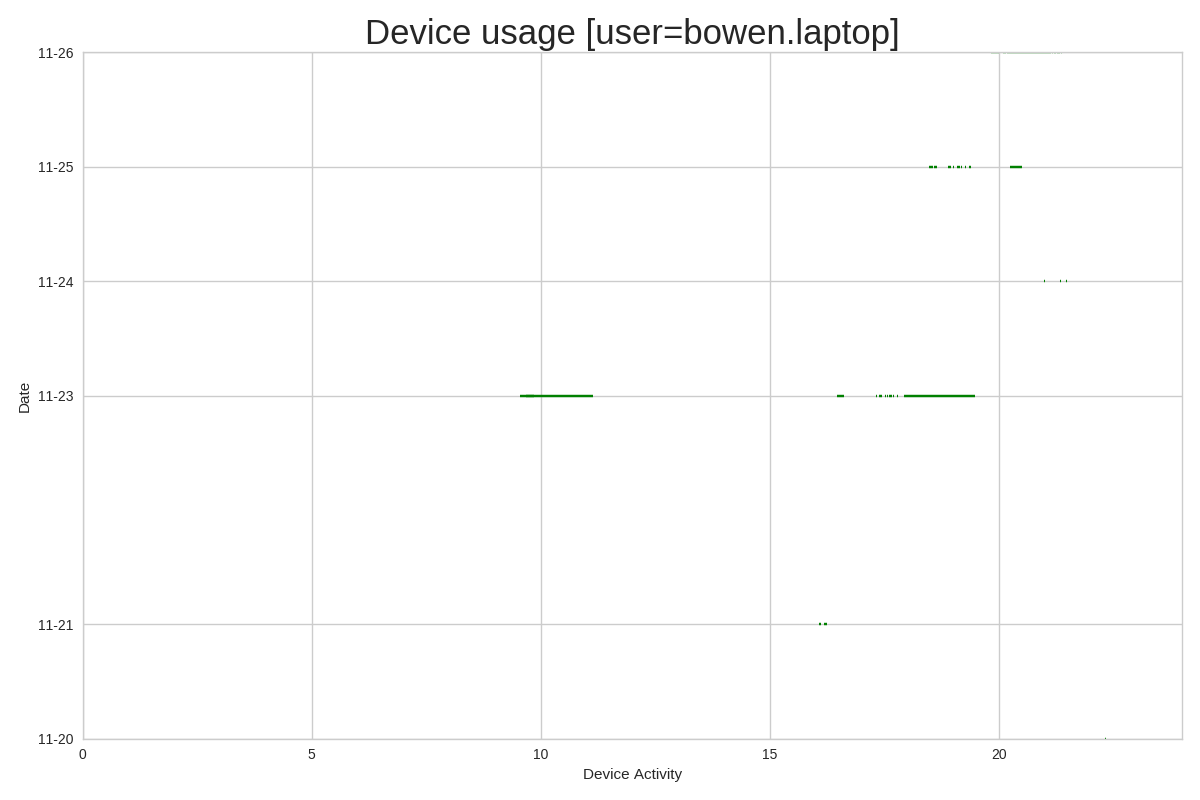
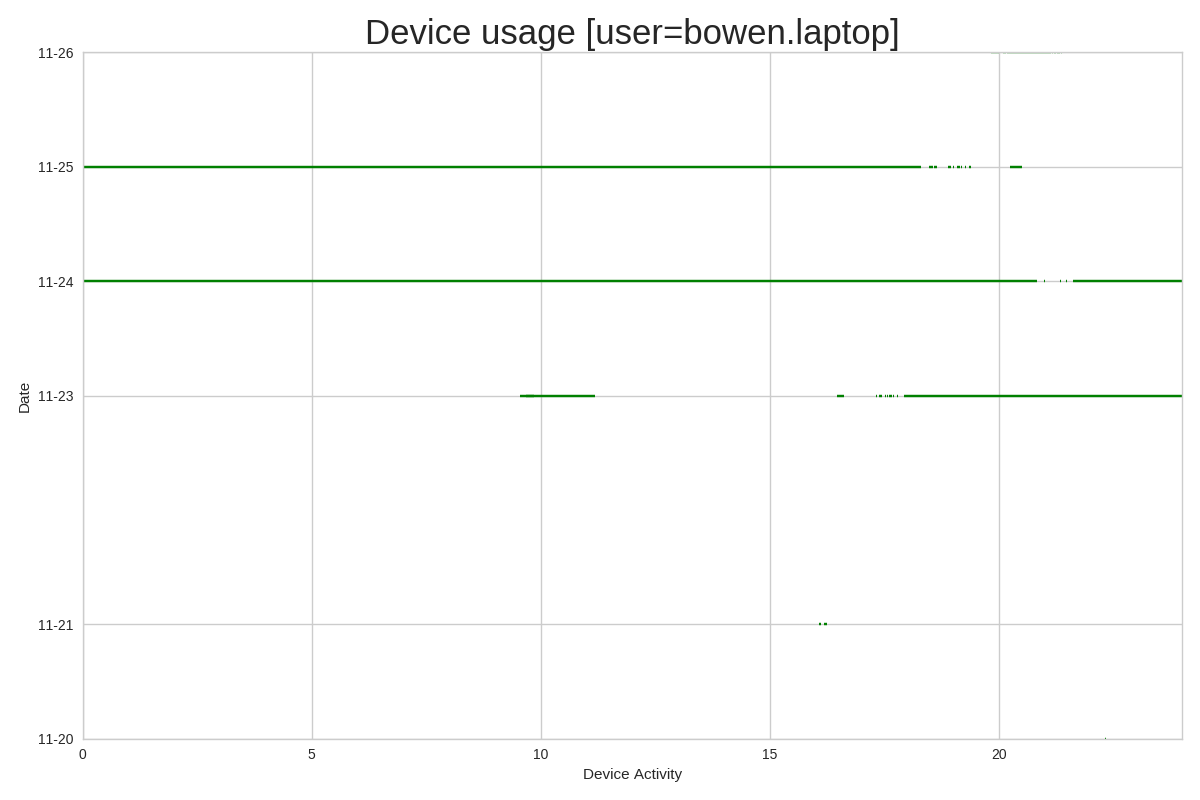
milaaaaaaagre. aprece estar fucioanndo...

diff --git a/inter_event_time_compare_daily_usage.py b/inter_event_time_compare_daily_usage.py
@@ -19,7 +19,7 @@ def compare_daily_activity():
     tn_dict = defaultdict(int)
     fp_dict = defaultdict(int)
     fn_dict = defaultdict(int)
-    error_window = [0, 15]#, 30, 45, 60, 60*2, 60*3, 60*4, 60*5]
+    error_window = [0, 15, 30, 45, 60, 60*2, 60*3, 60*4, 60*5]
 
     initialize_dict(tp_dict, error_window)
     initialize_dict(tn_dict, error_window)
@@ -57,7 +57,7 @@ def compare_daily_activity():
         last_day = last_day.replace(hour=23, minute=59, second=59, microsecond=0)
 
         for i in error_window:
-            #tp, fn, fp, tn = get_tp_fn_fp_tn(traces, act_beg_final, act_end_final, first_day, last_day, i)
+            #tp, fn, fp, tn = get_tp_fn_fp_tn(traces, act_beg_final, act_end_final, first_day, last_day, i, 1)
             tp, fn, fp, tn = get_tp_fn_fp_tn_sliding_window(traces, act_beg_final, act_end_final, first_day, last_day, i, 1)
 
             tp_dict[i] += tp
@@ -80,7 +80,26 @@ def compare_daily_activity():
         print 'recall ' + str(recall*100) + '%'
 
 
+def get_daily_traces(traces, bucket_beg):
+    daily_list = []
+    for elem in traces:
+        if elem.date() == bucket_beg.date():
+            daily_list.append(elem)
 
+    return daily_list
+
+def get_daily_activities(act_beg, act_end, bucket_beg):
+    daily_list_beg = []
+    daily_list_end = []
+    cont = 0
+    for elem in act_beg:
+        if elem.date() == bucket_beg.date():
+            daily_list_beg.append(elem)
+            daily_list_end.append(act_end[cont])
+        cont += 1
+
+    return daily_list_beg, daily_list_end
+    
 def get_tp_fn_fp_tn_sliding_window(traces, act_beg, act_end, first_day, last_day, error_window, sliding_window_size):
     tp, fn, fp, tn = 0, 0, 0, 0
     current_bucket_beg = first_day
@@ -89,15 +108,30 @@ def get_tp_fn_fp_tn_sliding_window(traces, act_beg, act_end, first_day, last_day
     cont_trace = 0
     cont_act = 0
     cont = 0
+
+    daily_traces = get_daily_traces(traces, current_bucket_beg)
+    daily_act_beg, daily_act_end = get_daily_activities(act_beg, act_end, current_bucket_beg)
+    current_date = current_bucket_beg.date()
+    previous_date = current_bucket_beg.date()
+
     while current_bucket_end <= last_day + datetime.timedelta(0,1):
-        cont += 1
-        trace_in, cont_trace = trace_in_bucket(traces, current_bucket_beg, current_bucket_end, error_window, cont_trace)
-        act_in, cont_act = act_in_bucket(act_beg, act_end, current_bucket_beg, current_bucket_end, error_window, cont_act)
+        if current_date != previous_date:
+            previous_date = current_date
+            print current_date
+            daily_traces = get_daily_traces(traces, current_bucket_beg)
+            daily_act_beg, daily_act_end = get_daily_activities(act_beg, act_end, current_bucket_beg)
+
+        trace_in, cont_trace = trace_in_bucket(daily_traces, current_bucket_beg, current_bucket_end, error_window, cont_trace)
+        act_in, cont_act = act_in_bucket(daily_act_beg, daily_act_end, current_bucket_beg, current_bucket_end, error_window, cont_act)
 
         if trace_in and act_in:
             tp += 1
 
         elif trace_in and not act_in:
+            #print 'beg and end of bucket: ' + str(current_bucket_beg) + ' ' + str(current_bucket_end)
+            #if cont_act < len(act_beg):
+                #print act_beg[cont_act]
+                #print act_end[cont_act]
             fp += 1
 
         elif not trace_in and act_in:
@@ -106,10 +140,9 @@ def get_tp_fn_fp_tn_sliding_window(traces, act_beg, act_end, first_day, last_day
         elif not trace_in and not act_in:
             tn += 1
             
-        else:
-            'tata'
         current_bucket_beg = current_bucket_end
         current_bucket_end = current_bucket_end + datetime.timedelta(0,sliding_window_size)
+        current_date = current_bucket_beg.date()
 
     print 'error window' + str(error_window)
     print 'cont ' + str(cont)
@@ -123,39 +156,125 @@ def get_tp_fn_fp_tn_sliding_window(traces, act_beg, act_end, first_day, last_day
 
 def trace_in_bucket(traces, bucket_beg, bucket_end, error_window, cont):
     beg_limit = bucket_beg - datetime.timedelta(0,error_window)
-    end_limit = bucket_end + datetime.timedelta(0,error_window)
+    end_limit = bucket_beg + datetime.timedelta(0,error_window)
+    #lembrar de mudar de volta pra bucket_end!!! 
 
+    bucket_cont = cont
     in_bucket = False
-    while cont < len(traces):
+
+    #if cont >= len(traces):
+        #return False, cont
+
+    if traces:
+        for elem in traces:
+            if elem >= beg_limit and elem <= end_limit:
+                return True, cont
+
+            elif elem > end_limit:
+                return False, cont
+
+    return False, cont
+
+    """while cont < len(traces):
         if traces[cont] > end_limit and not in_bucket:
-            return False, cont
+            return False, bucket_cont
 
         elif traces[cont] > end_limit and in_bucket:
-            return True, cont
+            return True, bucket_cont
 
         if traces[cont] >= beg_limit and traces[cont] <= end_limit:
             cont += 1
             in_bucket = True
+            if traces[bucket_cont] >= bucket_beg and traces[bucket_cont] <= bucket_end:
+                bucket_cont += 1
             #return True, cont
 
 
         #cont += 1
-    return False, cont
+    return False, bucket_cont"""
 
 
 def act_in_bucket(act_beg, act_end, bucket_beg, bucket_end, error_window, cont):
     
+    beg_limit = bucket_beg - datetime.timedelta(0,error_window)
+    end_limit = bucket_beg + datetime.timedelta(0,error_window)
+    #mudar para bucket_end!!!
+
+
+    for j in range(0, len(act_beg)):
+        date_ranges_overlap = max(act_beg[j], beg_limit) <= min(act_end[j], end_limit)
+        if date_ranges_overlap:
+            return True, cont
+
+        if act_beg[j] > end_limit:
+            return False, cont
+
+    return False, cont
+
+    """if (act_beg[cont] <= bucket_beg and  #+ datetime.timedelta(0,error_window) and
+            act_end[cont] >= bucket_beg) or \
+            #- datetime.timedelta(0,error_window)) or \
+        (act_beg[cont] <= bucket_end and # + datetime.timedelta(0,error_window) and
+         act_end[cont] >= bucket_end): # - datetime.timedelta(0,error_window)):
+    #original:
+    in_bucket = False
+    cont2 = 0
+
+    if cont >= len(act_beg):
+        return False, cont
+    #while cont < len(act_beg):
+
+    #activity is bigger than bucket
+    if (act_beg[cont] <= bucket_beg and act_end[cont] >= bucket_end):
+        in_bucket = True
+        el = act_beg[cont]
+        if el.day == 19 and el.hour == 9 and el.minute == 46:
+            print '**act_beg ' + str(el)
+            print '**act_end ' + str(act_end[cont])
+            print '**beg and end of bucket: ' + str(bucket_beg) + ' ' + str(bucket_end)
+
+        if (cont+1) < len(act_beg):
+            if act_end[cont] <= bucket_end:
+                cont += 1
+    else:
+        #activity intersects or is contained in bucket
+        while (act_beg[cont] <= bucket_beg and act_end[cont] > bucket_beg and act_end[cont] <= bucket_end) or (act_beg[cont] >= bucket_beg and act_beg[cont] < bucket_end and act_end[cont] >= bucket_end) or (act_beg[cont] >= bucket_beg and act_end[cont] <= bucket_end):# or (act_beg[cont] <= bucket_beg and act_end[cont] >= bucket_end):
+            in_bucket = True
+            el = act_beg[cont]
+            if el.day == 19 and el.hour == 9 and el.minute == 46:
+                print 'act_beg ' + str(el)
+                print 'act_end ' + str(act_end[cont])
+                print 'beg and end of bucket: ' + str(bucket_beg) + ' ' + str(bucket_end)
+
+            if cont+1 >= len(act_beg):
+                return True, cont
+
+            cont+=1
+
+        el = act_beg[cont]
+        if el.day == 19 and el.hour == 9 and el.minute == 46 and in_bucket == False:
+            print '==act_beg ' + str(el)
+            print '==act_end ' + str(act_end[cont])
+            print '==beg and end of bucket: ' + str(bucket_beg) + ' ' + str(bucket_end)
+
+    #activity is bigger than bucket
+    if (act_beg[cont] <= bucket_beg and act_end[cont] >= bucket_end):
+        in_bucket = True
+
+    if in_bucket:
+        return True, cont
+        #cont2+=1
+
+    return False, cont
+    #fim do original
     while cont < len(act_beg):
-        if (act_beg[cont] <= bucket_beg + datetime.timedelta(0,error_window) and 
-            act_end[cont] >= bucket_beg - datetime.timedelta(0,error_window)) or \
-        (act_beg[cont] <= bucket_end + datetime.timedelta(0,error_window) and
-         act_end[cont] >= bucket_end - datetime.timedelta(0,error_window)):
+        if (act_beg[cont] <= bucket_beg and act_end[cont] >= bucket_beg) or (act_beg[cont] <= bucket_end and act_end[cont] >= bucket_end):
             return True, cont
         if act_beg[cont] > bucket_end:
             return False, cont
         cont += 1
 
-    return False, cont
+    return False, cont"""
 
 def initialize_dict(var_dict, error_window):
     
@@ -163,14 +282,15 @@ def initialize_dict(var_dict, error_window):
         var_dict[i] = 0
 
 
-def get_tp_fn_fp_tn(traces, act_beg, act_end, first_day, last_day, error_window):
+def get_tp_fn_fp_tn(traces, act_beg, act_end, first_day, last_day, error_window, sliding_window):
 
     j = 0
     tp, fn, fp, tn = 0, 0, 0, 0
     act_duration = 0
+    end_fp = 0
 
     for i in range(0, len(act_beg)):
-        if j == len(traces):
+        if j >= len(traces):
             break
         current_trace = traces[j]
         current_beg = act_beg[i]
@@ -187,37 +307,57 @@ def get_tp_fn_fp_tn(traces, act_beg, act_end, first_day, last_day, error_window)
                 #print 'end ' + str(current_end)
                 #print 'curr ' + str(current_trace)
                 tp += 1
+
+                previous_trace = current_trace
                 j += 1
-                if j == len(traces):
+                if j >= len(traces):
                     break
+                #print '======='
+                #print 'j ' + str(j)
+                #print 'traces ' + str(len(traces))
                 current_trace = traces[j]
+
+                while (current_trace - previous_trace).total_seconds() < sliding_window:
+                    j += 1
+                    if j >= len(traces):
+                        break
+                    current_trace = traces[j]
             
             while current_trace < (current_beg - datetime.timedelta(0,error_window)):
                 #print '*********'
                 #print 'beg ' + str(current_beg)
                 #print 'end ' + str(current_end)
                 #print 'curr ' + str(current_trace)
+                previous_trace = current_trace
                 fp += 1
                 j += 1
-                if j == len(traces):
+                if j >= len(traces):
                     break
                 current_trace = traces[j]
 
+                while (current_trace - previous_trace).total_seconds() < sliding_window:
+                    j += 1
+                    if j >= len(traces):
+                        break
+                    current_trace = traces[j]
+
         while i == len(act_end) and j < len(traces):
-            fp += 1
+            end_fp += 1
             j += 1
+        fp = fp + int(end_fp)/sliding_window
+
         
     for i in range(0, len(act_beg)):    
         act_duration += (act_end[i] - act_beg[i]).total_seconds()
 
     if int(act_duration) - tp > 0:
-        fn = int(act_duration) - tp
+        fn = int(int(act_duration)/sliding_window) - tp
     else:
         fn = 0
 
     #fp = len(traces) - tp
     non_act_duration = (last_day - first_day).total_seconds() - act_duration
-    tn = int(non_act_duration) - fp
+    tn = int(int(non_act_duration)/sliding_window) - fp
 
     precision = float(tp)/(tp+fp)
     recall = float(tp)/(tp + fn)

diff --git a/inter_event_time_analysis_activities.py b/inter_event_time_analysis_activities.py
@@ -58,7 +58,7 @@ def get_activities_inter_times():
             end = []
             print (device.device_id + '==============')
             for row in ses.execute(text(sql).bindparams(d_id = device.id)):
-                if row[2] in online_act:# 'shellexperiencehost.exe':
+                if True:#row[2] in online_act:# 'shellexperiencehost.exe':
                     beg.append(row[0])
                     end.append(row[1])
 
@@ -66,7 +66,7 @@ def get_activities_inter_times():
             io_iat = []
             cont = 0
             for row in ses.execute(text(sql_io).bindparams(d_id = device.id)):
-                if row[0] in online_act:#'solitaire.exe':
+                if True:#row[0] in online_act:#'solitaire.exe':
                     io.append(row[1])
                     if (row[2]==None):
                         continue
